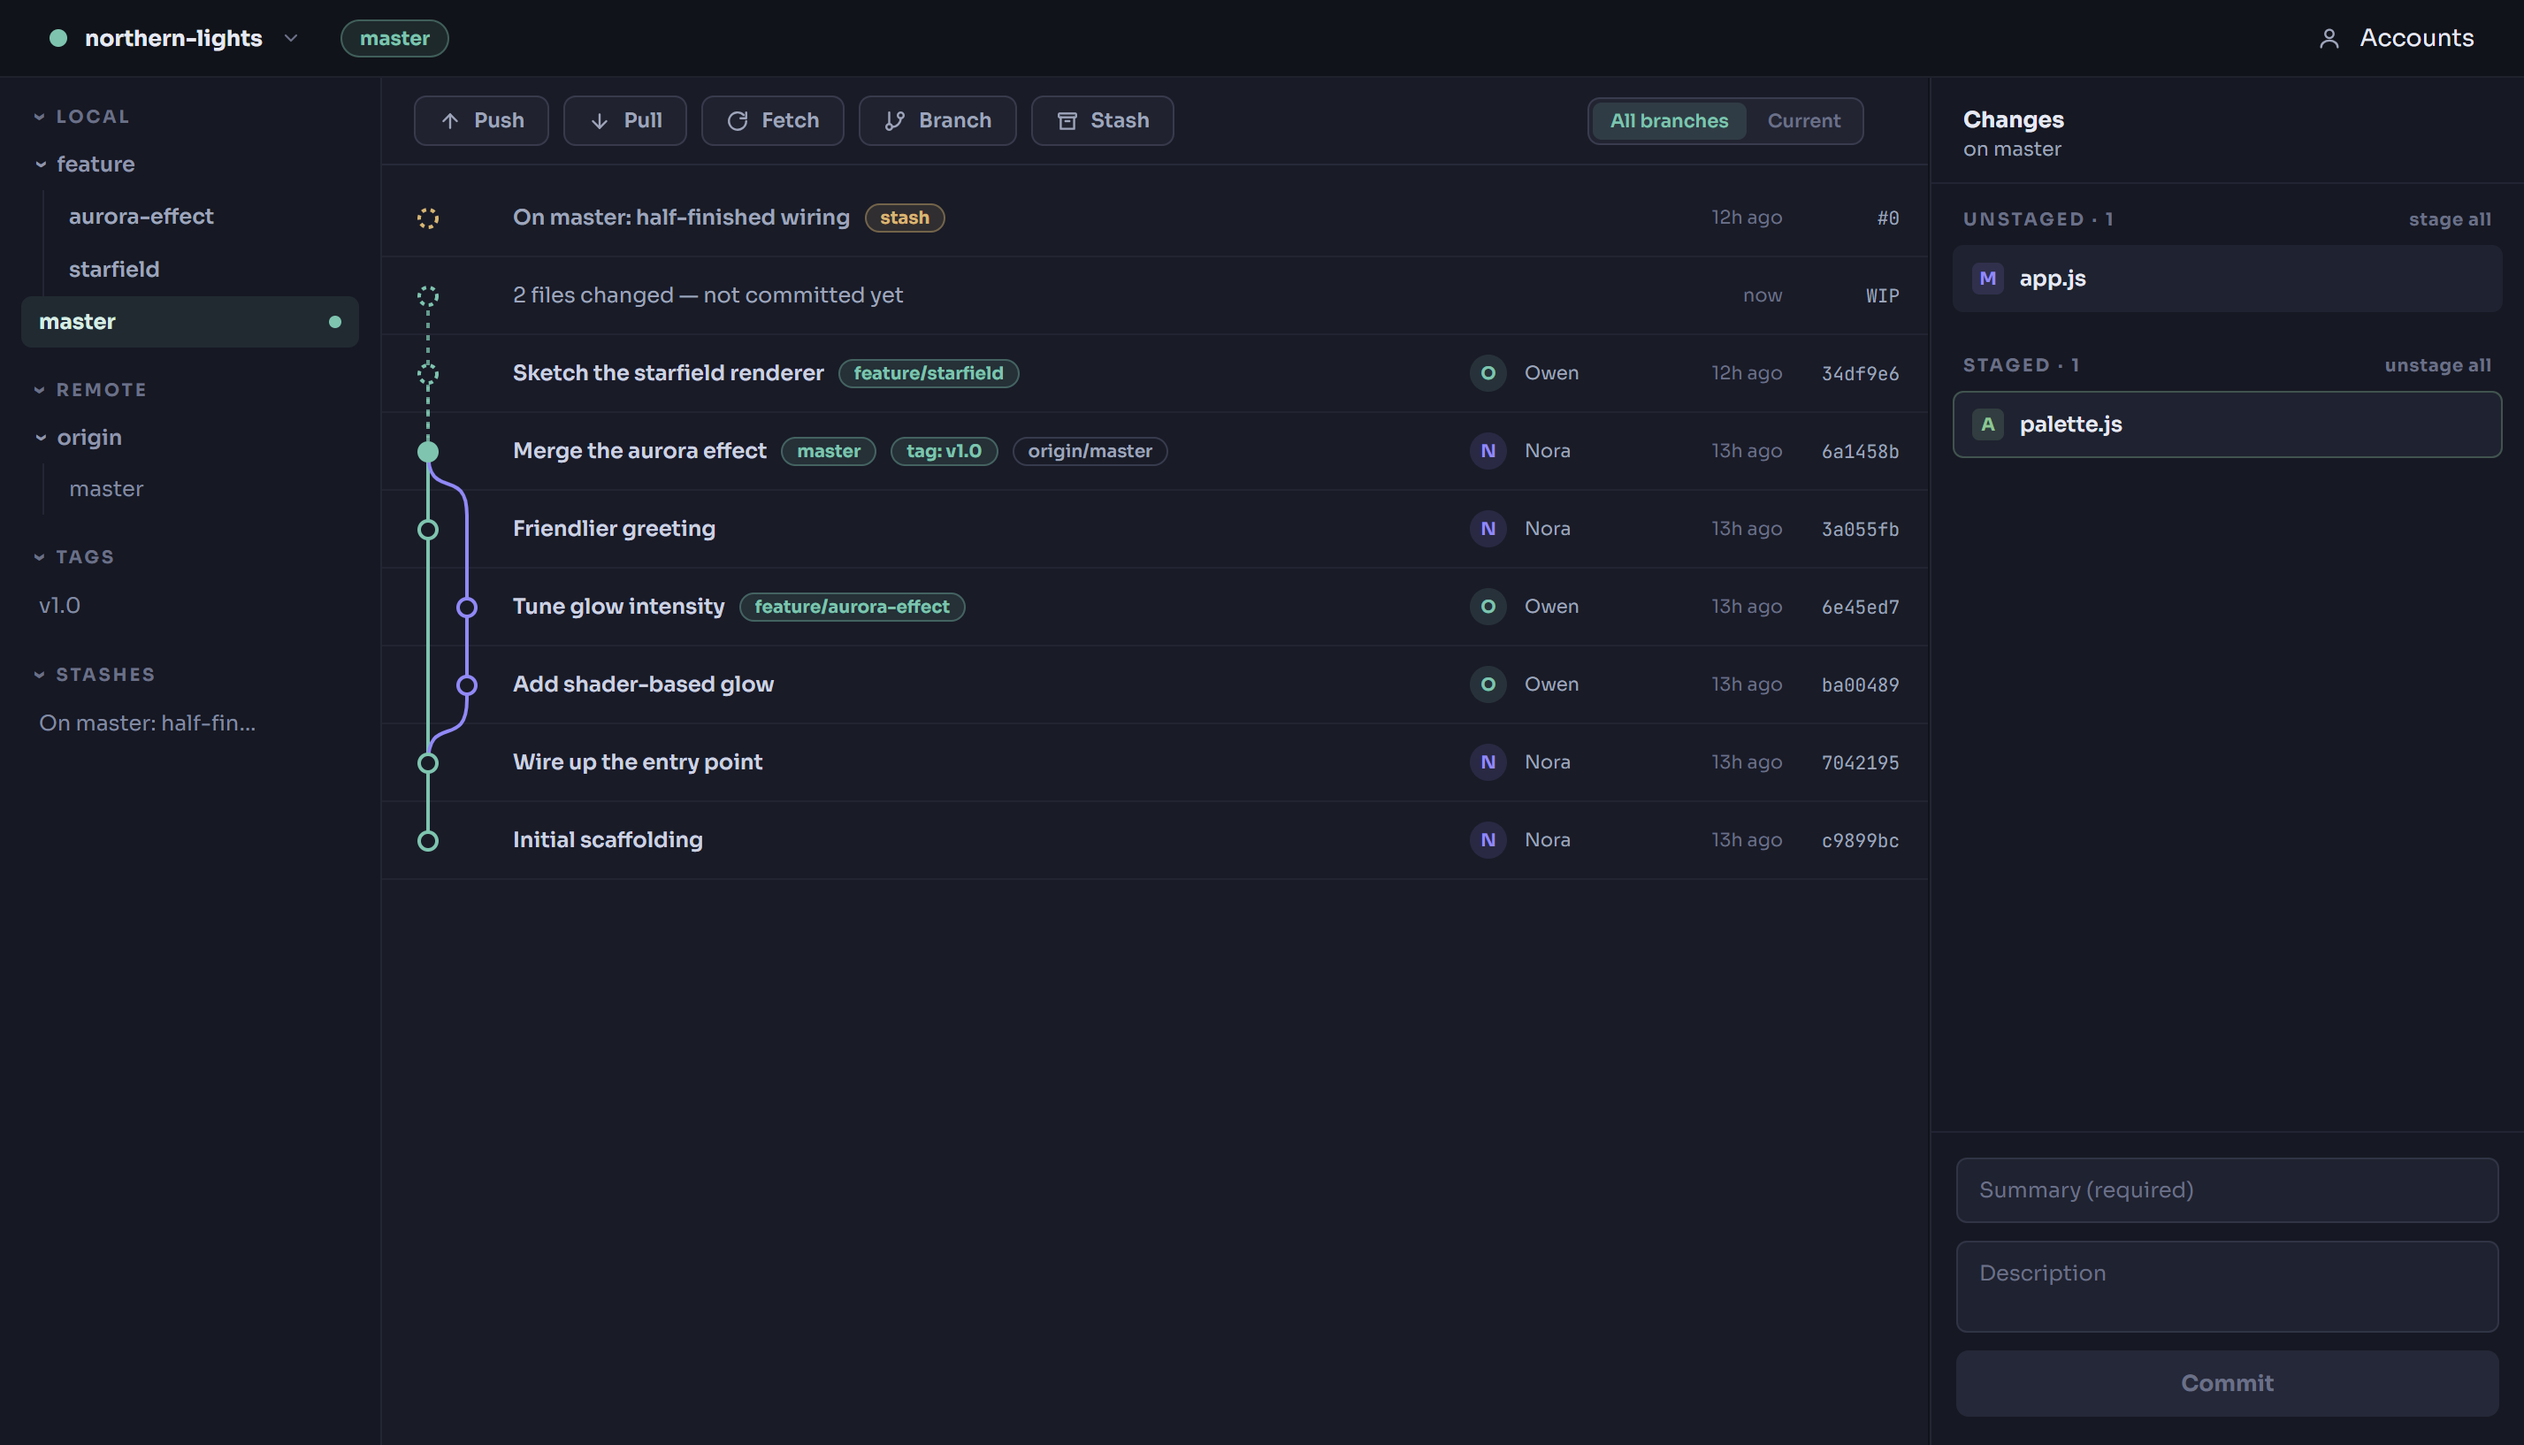
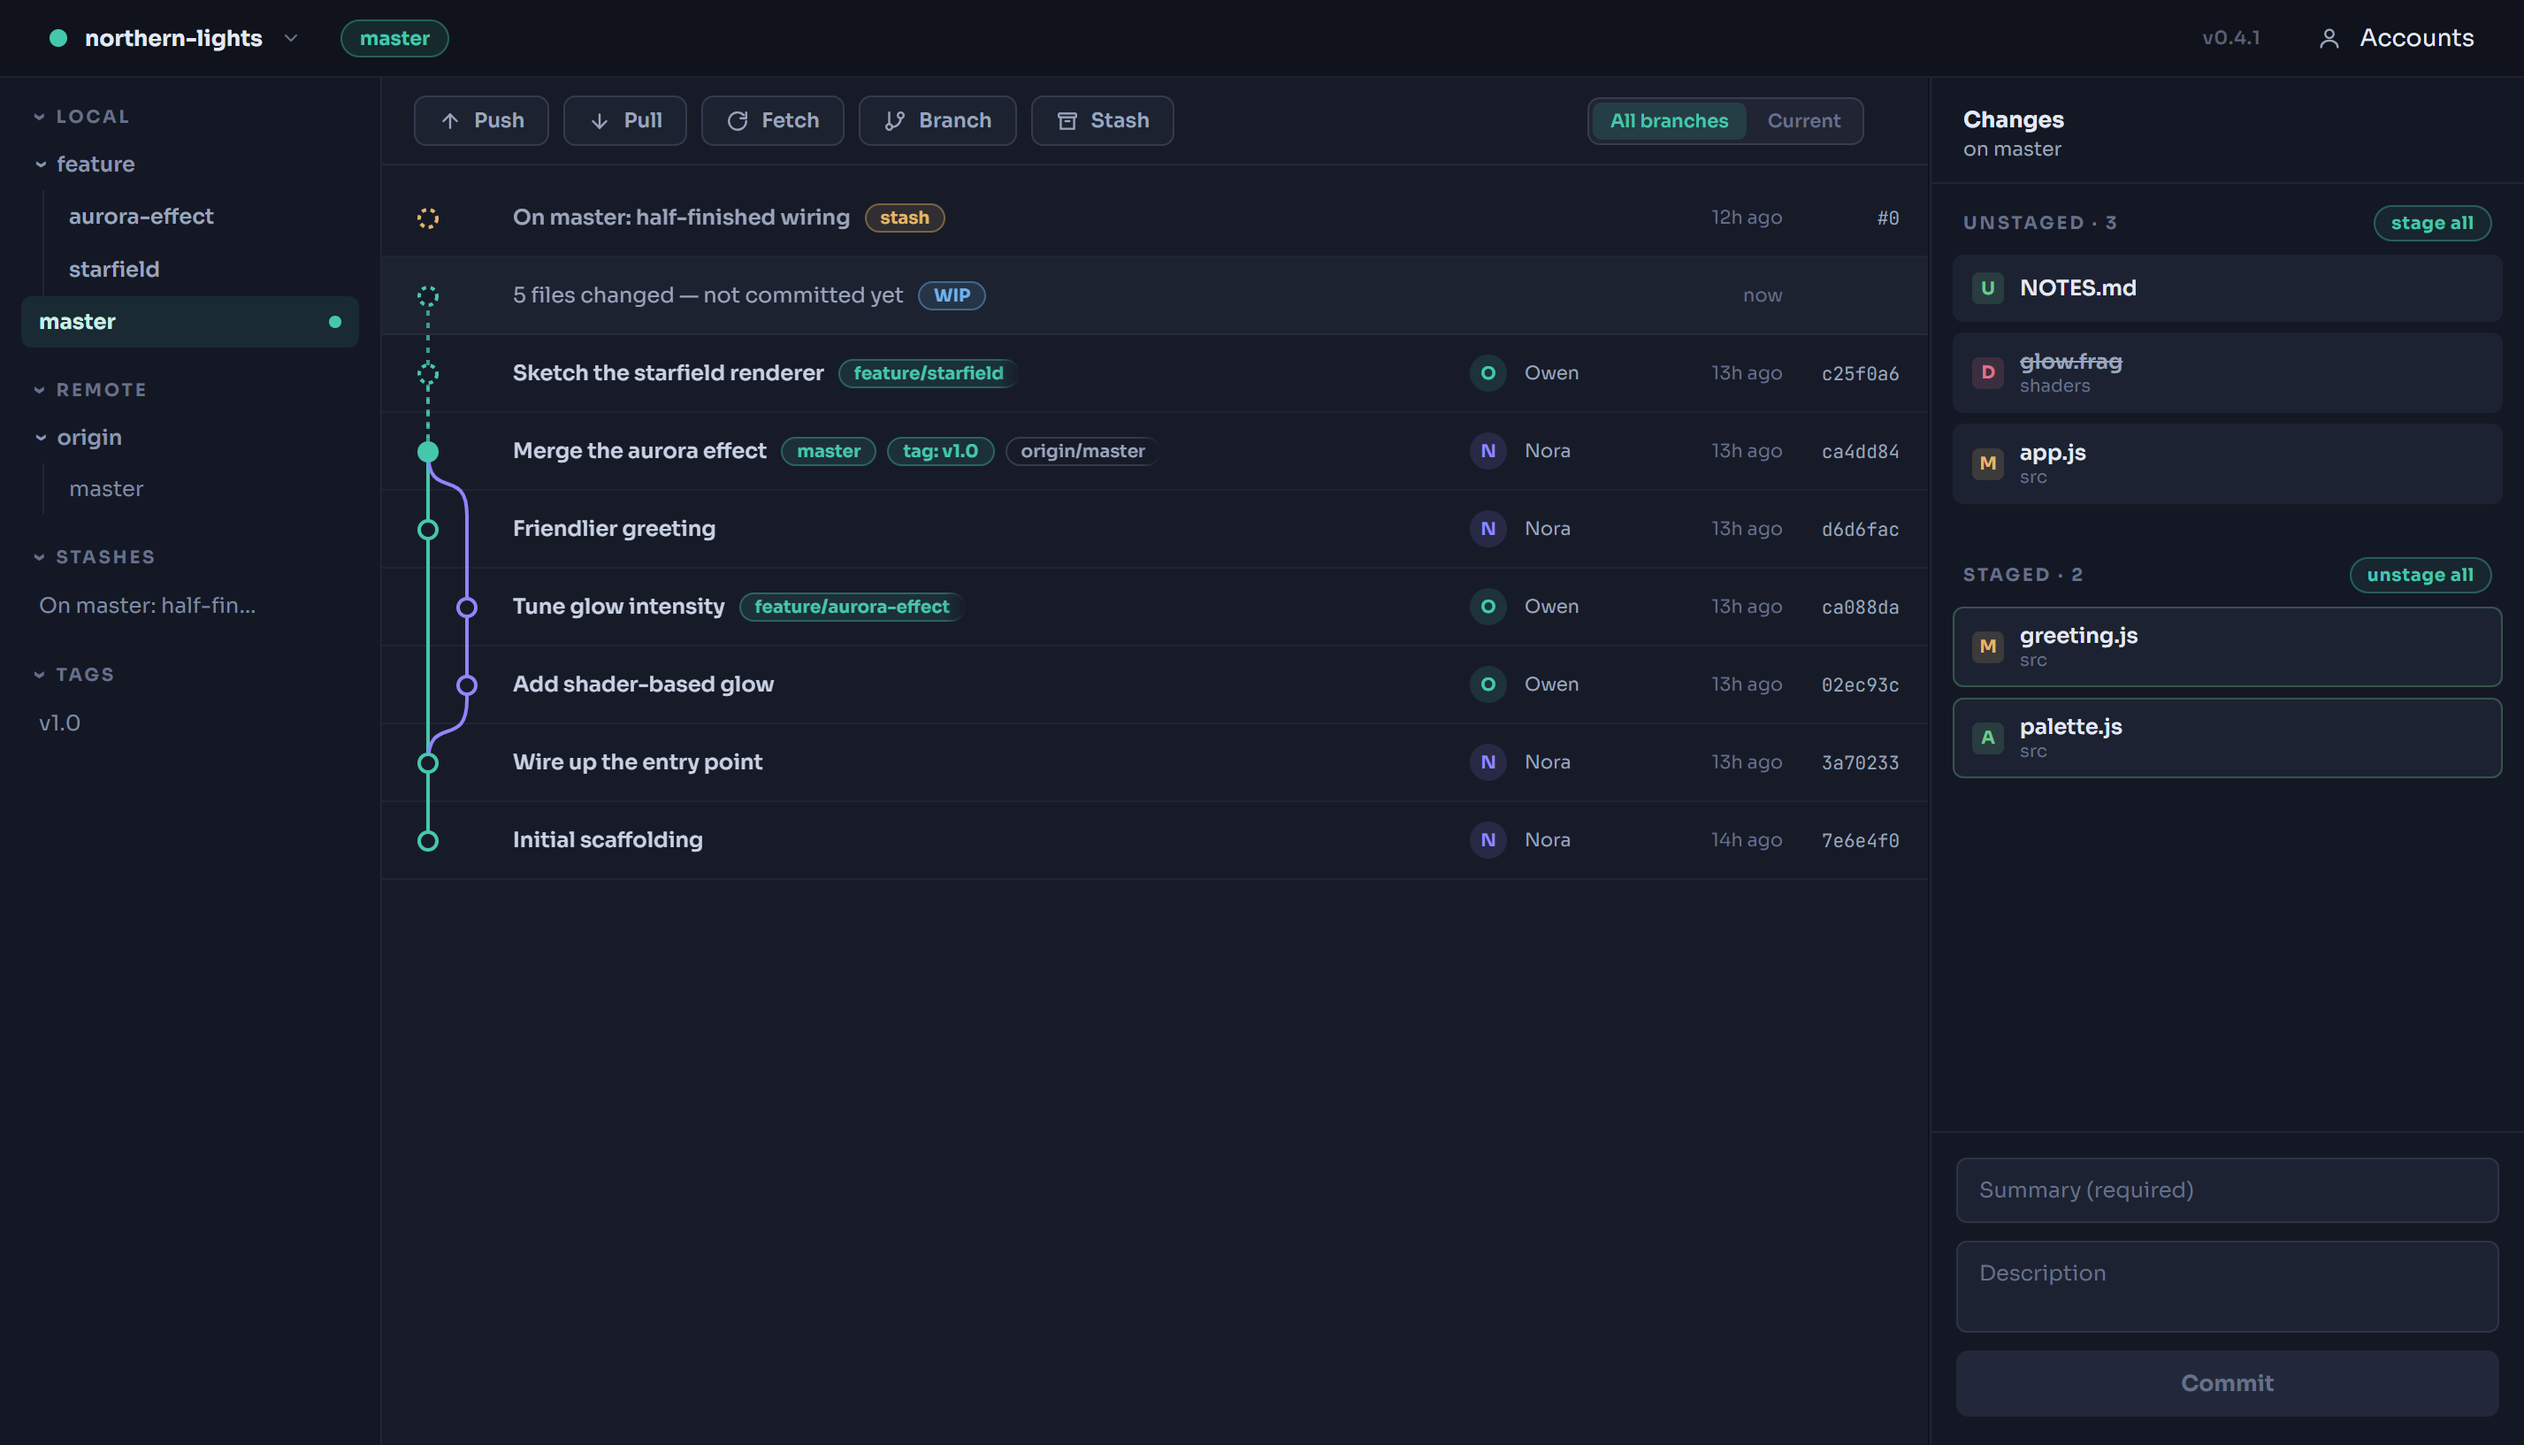
Distinguish file state

diff --git a/renderer/renderer.js b/renderer/renderer.js
@@ -957,6 +957,18 @@ const act = async (action) => {
   await refresh();
 };
 
+// git status letter -> badge styling and a human label for the tooltip
+const FILE_KINDS = {
+  A: { kind: 'add', label: 'New file' },
+  U: { kind: 'add', label: 'Untracked file' },
+  M: { kind: 'mod', label: 'Modified' },
+  T: { kind: 'mod', label: 'Type changed' },
+  D: { kind: 'del', label: 'Deleted' },
+  R: { kind: 'ren', label: 'Renamed' },
+  C: { kind: 'ren', label: 'Copied' },
+};
+const fileKind = (code) => FILE_KINDS[code] || { kind: '', label: 'Changed' };
+
 const renderFileList = (containerId, labelId, label, fileList, staged) => {
   document.getElementById(labelId).textContent = `${label} · ${fileList.length}`;
   const container = document.getElementById(containerId);
@@ -972,9 +984,10 @@ const renderFileList = (containerId, labelId, label, fileList, staged) => {
   });
   document.getElementById(labelId).parentElement.append(allBtn);
   fileList.forEach((file) => {
-    const row = el('div', staged ? 'file-row staged' : 'file-row');
+    const { kind, label: kindLabel } = fileKind(file.code);
+    const row = el('div', `file-row${staged ? ' staged' : ''}${kind ? ` ${kind}` : ''}`);
     row.dataset.path = file.path;
-    row.title = 'Click to view the diff';
+    row.title = `${kindLabel} · click to view the diff`;
     const { name, dir } = splitPath(file.path);
     const meta = el('div', 'file-meta');
     meta.append(el('span', 'file-name', name));
@@ -988,7 +1001,9 @@ const renderFileList = (containerId, labelId, label, fileList, staged) => {
       event.stopPropagation();
       act(() => staged ? window.aurora.unstage([file.path]) : window.aurora.stage([file.path]));
     });
-    row.append(el('span', staged ? 'badge staged' : 'badge', file.code), meta);
+    const badge = el('span', `badge${kind ? ` ${kind}` : ''}`, file.code);
+    badge.title = kindLabel;
+    row.append(badge, meta);
     if (!staged) {
       const untracked = file.code === 'U';
       const discardBtn = el('button', 'file-act discard');

diff --git a/renderer/index.html b/renderer/index.html
@@ -450,7 +450,11 @@
       display: flex; align-items: center; justify-content: center; font-size: 10px; font-weight: 700;
       background: rgba(143,134,255,0.14); color: #8f86ff;
     }
-    .badge.staged { background: rgba(110,201,143,0.16); color: #6ec98f; }
+    .badge.add { background: rgba(110,201,143,0.16); color: #6ec98f; }
+    .badge.mod { background: rgba(229,181,103,0.16); color: #e5b567; }
+    .badge.del { background: rgba(224,112,138,0.16); color: #e0708a; }
+    .badge.ren { background: rgba(96,165,250,0.16); color: #60a5fa; }
+    .file-row.del .file-name { text-decoration: line-through; color: #9aa5bd; }
     .file-name { font-size: 12px; font-weight: 600; white-space: nowrap; overflow: hidden; text-overflow: ellipsis; }
     .file-dir { font-size: 10px; color: #667089; white-space: nowrap; overflow: hidden; text-overflow: ellipsis; }
     .file-meta { flex-grow: 1; min-width: 0; display: flex; flex-direction: column; }

diff --git a/README.md b/README.md
@@ -4,7 +4,7 @@ A cozy git client for Windows, built with Electron.
 
 Aurora opens a repository and gives you the essentials in one calm, dark window: a branch graph of the commit history, staging and committing, remote sync with GitHub/GitLab sign-in, and stash, branch, and tag management — without the ceremony of the big clients.
 
-![Aurora showing a repository with a branch graph, stash, and staged changes](docs/screenshot.png)
+![Aurora showing a repository with a branch graph, a stash, and unstaged and staged changes color-coded as new, modified, or deleted](docs/screenshot.png)
 
 ## Features
 
@@ -16,7 +16,7 @@ Aurora opens a repository and gives you the essentials in one calm, dark window:
 - Avatars are color-coded per author with initials; ref chips show branches and tags on their commits.
 
 ### Staging & committing
-- Unstaged and staged files side by side; click a file to see its **diff inline** (including synthesized diffs for untracked files).
+- Unstaged and staged files side by side, each badged by what changed — **new**, **modified**, **deleted**, or **renamed** — with deleted files struck through; click a file to see its **diff inline** (including synthesized diffs for untracked files).
 - Stage/unstage per file with the hover icons or all at once; **discard** unstaged changes (or delete untracked files) with a confirmation.
 - Commit with a summary + optional description; errors surface inline.
 
